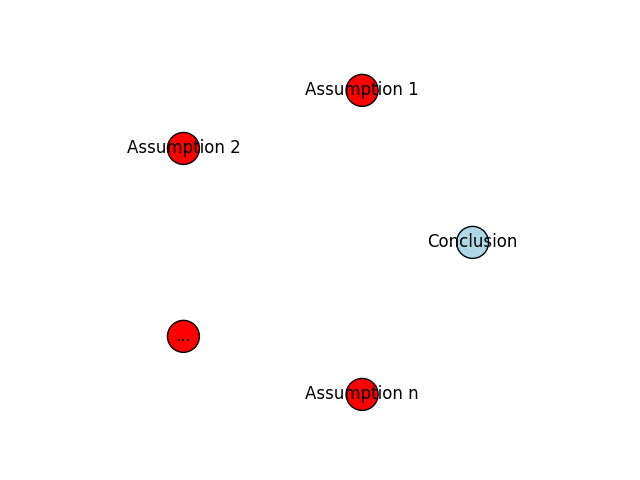
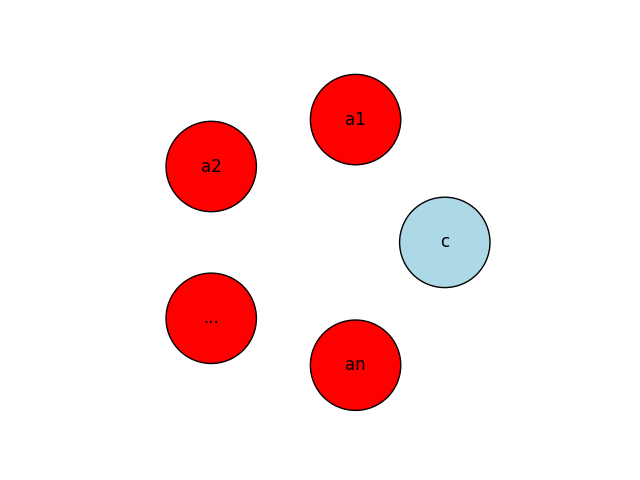
resolved image size of illustration graphes

diff --git a/concept/source/ill2.py b/concept/source/ill2.py
@@ -8,9 +8,10 @@ p = Graph(directed=True)
 #
 
 p.add_vertices(5)
-p.vs["label"] = ['Conclusion', 'Assumption 1', 'Assumption 2', '...', 'Assumption n']
-p.vs["color"] = ['yellow',  'red',          'red',          'red', 'red'         ]
+p.vs["label"] = ['c', 'a1', 'a2', '...', 'an']
+p.vs["color"] = ['yellow', 'red', 'red', 'red', 'red']
 p.vs["order"] = [1, 2, 3, 4, 5]
+p.vs["size"] = [0.7,0.7,0.7,0.7,0.7]
 
 
 ##
@@ -18,13 +19,14 @@ p.vs["order"] = [1, 2, 3, 4, 5]
 #
 
 p.add_vertices(3)
-p.vs[5:8]["label"] = ['Condition 1', ' ... ', 'Condition n1']
+p.vs[5:8]["label"] = ['p1,1', ' ... ', 'p1,n1']
 p.vs[5:8]["color"] = ['lightblue',  'lightblue', 'lightblue']
-p.add_edge(p.vs.find(label='Condition 1'), p.vs.find(label='Conclusion'))
-p.add_edge(p.vs.find(label=' ... '), p.vs.find(label='Conclusion'))
-p.add_edge(p.vs.find(label='Condition n1'), p.vs.find(label='Conclusion'))
+p.vs[5:8]["size"] = [0.7,0.7,0.7]
+p.add_edge(p.vs.find(label='p1,1'), p.vs.find(label='c'))
+p.add_edge(p.vs.find(label=' ... '), p.vs.find(label='c'))
+p.add_edge(p.vs.find(label='p1,n1'), p.vs.find(label='c'))
 
-p.es["label"] = ['Rule i', 'Rule i', 'Rule i']
+p.es["label"] = ['ri1', 'ri1', 'ri1']
 
  
 layout = p.layout("kk")

diff --git a/concept/source/ill1.py b/concept/source/ill1.py
@@ -4,9 +4,10 @@ from igraph import Graph, plot
 p = Graph(directed=True)
 
 p.add_vertices(5)
-p.vs["label"] = ['Conclusion', 'Assumption 1', 'Assumption 2', '...', 'Assumption n']
-p.vs["color"] = ['lightblue',  'red',          'red',          'red', 'red'         ]
+p.vs["label"] = ['c', 'a1', 'a2', '...', 'an']
+p.vs["color"] = ['lightblue', 'red', 'red', 'red', 'red']
 p.vs["order"] = [1, 2, 3, 4, 5]
+p.vs["size"] = [0.7,0.7,0.7,0.7,0.7]
 
 print(p)
  
